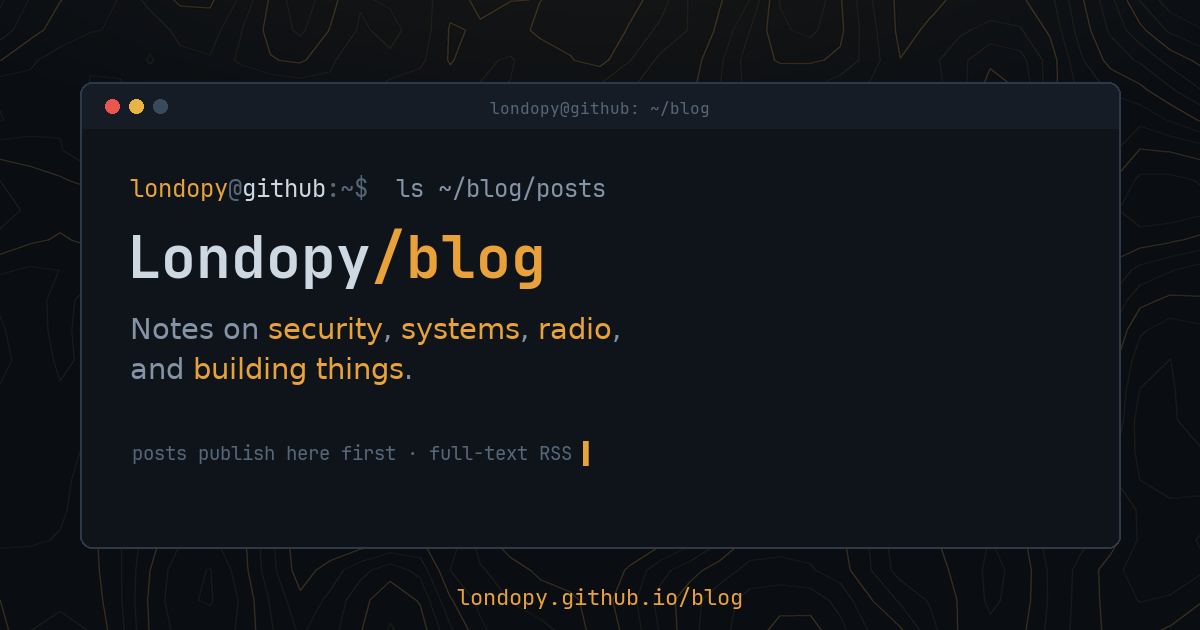
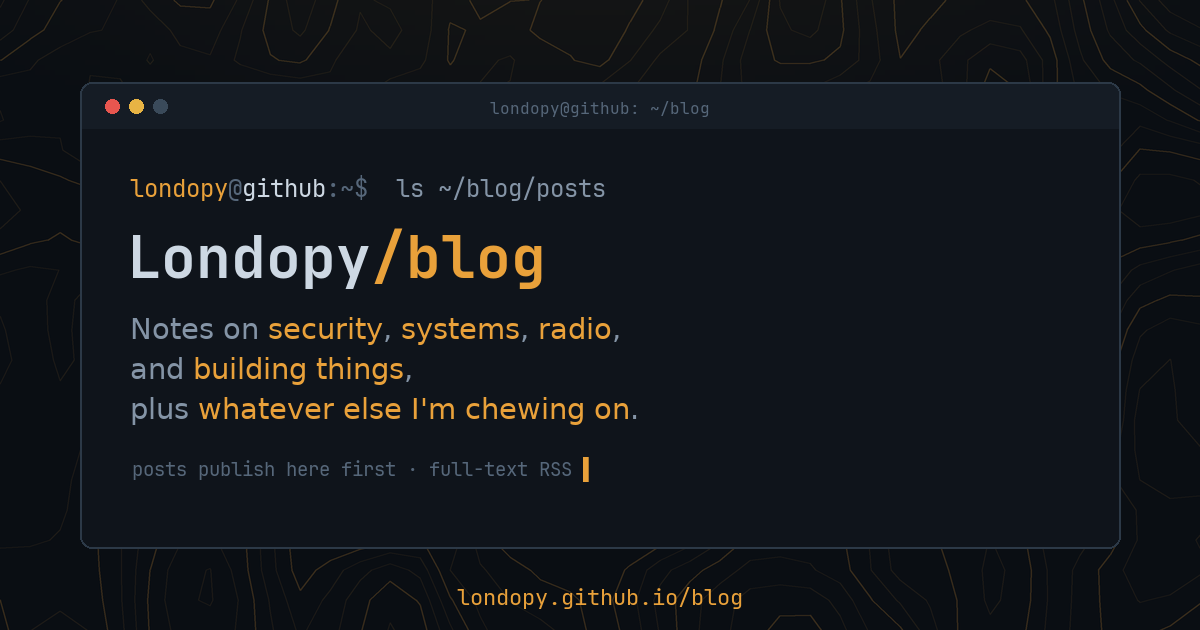
Broaden the tagline: plus whatever else I'm chewing on

Changed region(s): [[0.0925, 0.6937, 0.4933, 0.754], [0.0925, 0.6333, 0.5242, 0.6635]]

diff --git a/scripts/make_cover.py b/scripts/make_cover.py
@@ -359,9 +359,10 @@ def site_card():
         ("Notes on ", DIM), ("security", ACCENT), (", ", DIM),
         ("systems", ACCENT), (", ", DIM), ("radio", ACCENT), (",", DIM),
     ], fs)
-    segments(d, LEFT, 352, [("and ", DIM), ("building things", ACCENT), (".", DIM)], fs)
+    segments(d, LEFT, 352, [("and ", DIM), ("building things", ACCENT), (",", DIM)], fs)
+    segments(d, LEFT, 392, [("plus ", DIM), ("whatever else I'm chewing on", ACCENT), (".", DIM)], fs)
 
-    segments(d, LEFT + 2, 440, [
+    segments(d, LEFT + 2, 456, [
         ("posts publish here first · full-text RSS ", FAINT), ("▌", ACCENT),
     ], ImageFont.truetype(MONO, 19))
 

diff --git a/README.md b/README.md
@@ -1,7 +1,7 @@
 # Londopy blog
 
-Notes on security, systems, radio, and building things.
-Live at **https://londopy.github.io/blog/**.
+Notes on security, systems, radio, and building things, plus whatever else
+I'm chewing on. Live at **https://londopy.github.io/blog/**.
 
 Built with [Hugo](https://gohugo.io/) (extended) and the
 [PaperMod](https://github.com/adityatelange/hugo-PaperMod) theme, deployed to
